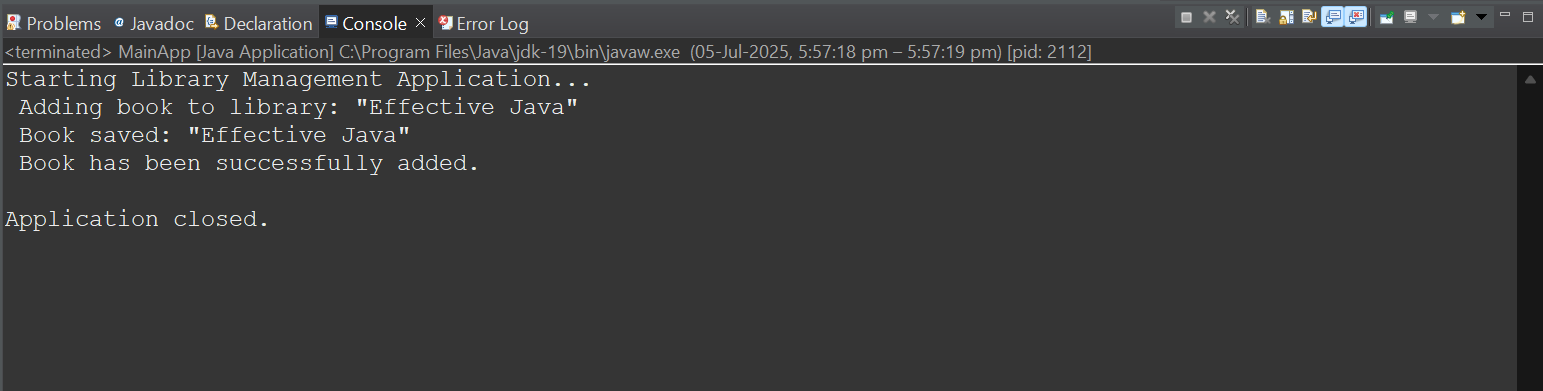
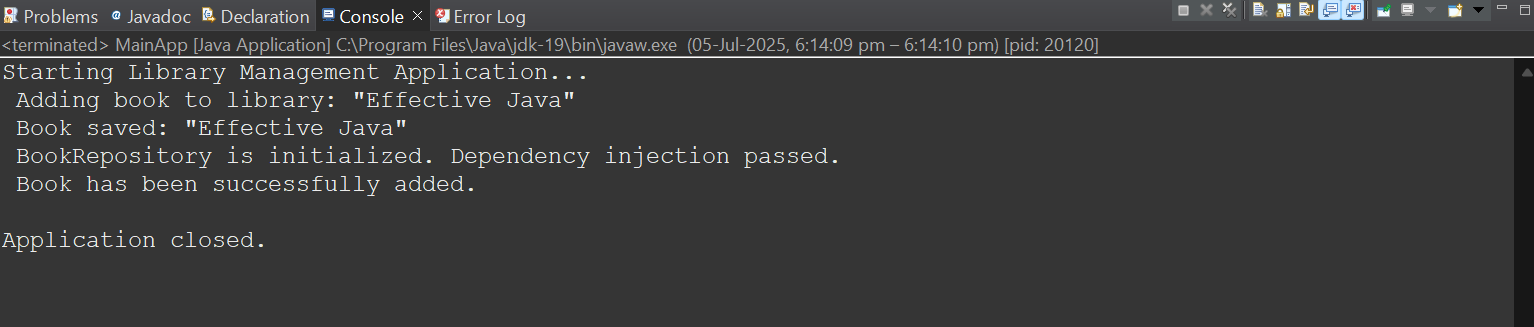
Ex 2 added

Changed region(s): [[0.0, 0.0, 1.0, 1.0], [0.766, 0.0, 1.0, 0.0917], [0.0, 0.7034, 0.1838, 0.7951]]

diff --git a/WEEK 3/SPRING CORE MAVEN/EX 2 IMPLEMENTING DEPENDENCY INJECTION/CODE/BookService.java b/WEEK 3/SPRING CORE MAVEN/EX 2 IMPLEMENTING DEPENDENCY INJECTION/CODE/BookService.java
@@ -14,6 +14,7 @@ public class BookService {
         
         if (bookRepository != null) {
             bookRepository.saveBook(bookName);
+            System.out.println(" BookRepository is initialized. Dependency injection passed.");
             System.out.println(" Book has been successfully added.\n");
         } else {
             System.out.println(" BookRepository is not initialized. Dependency injection failed.");
